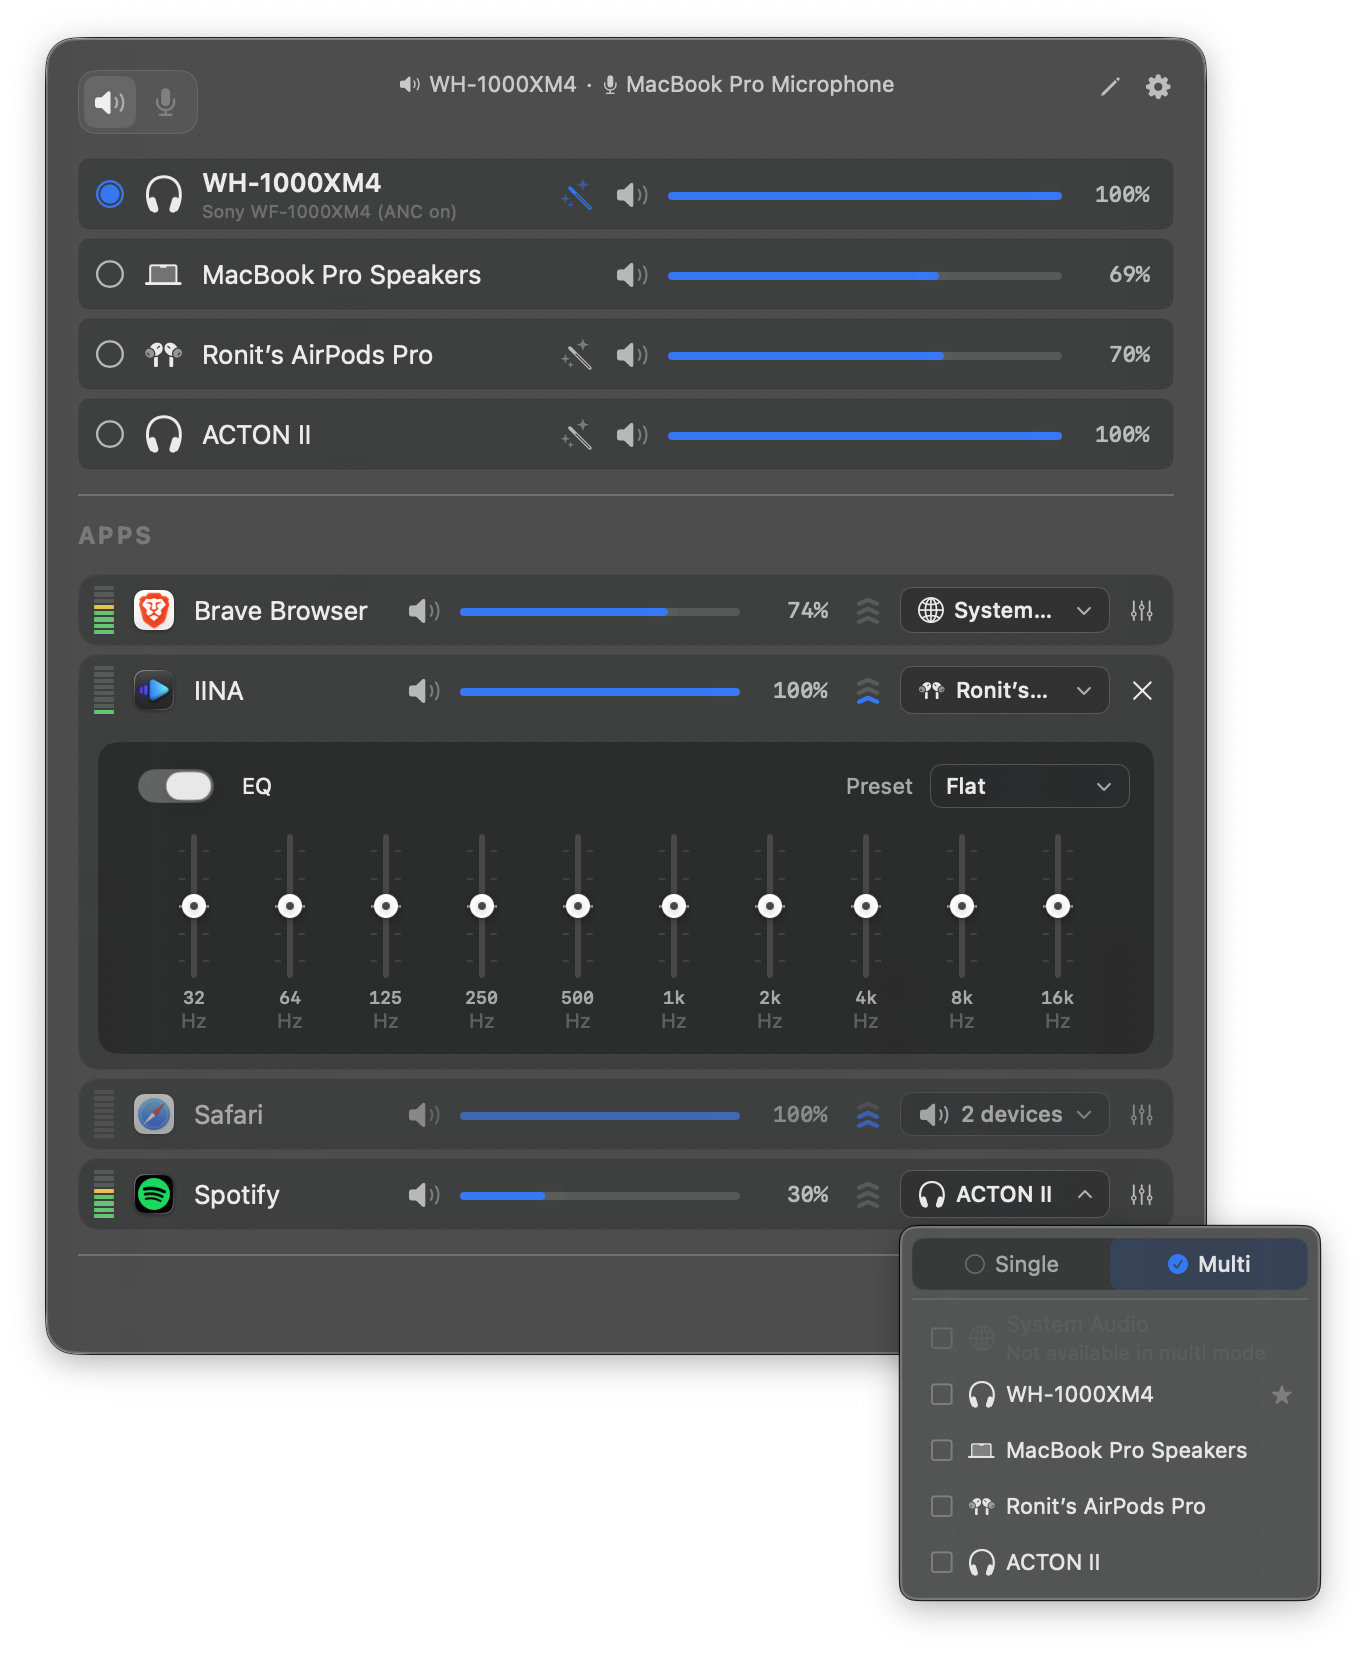
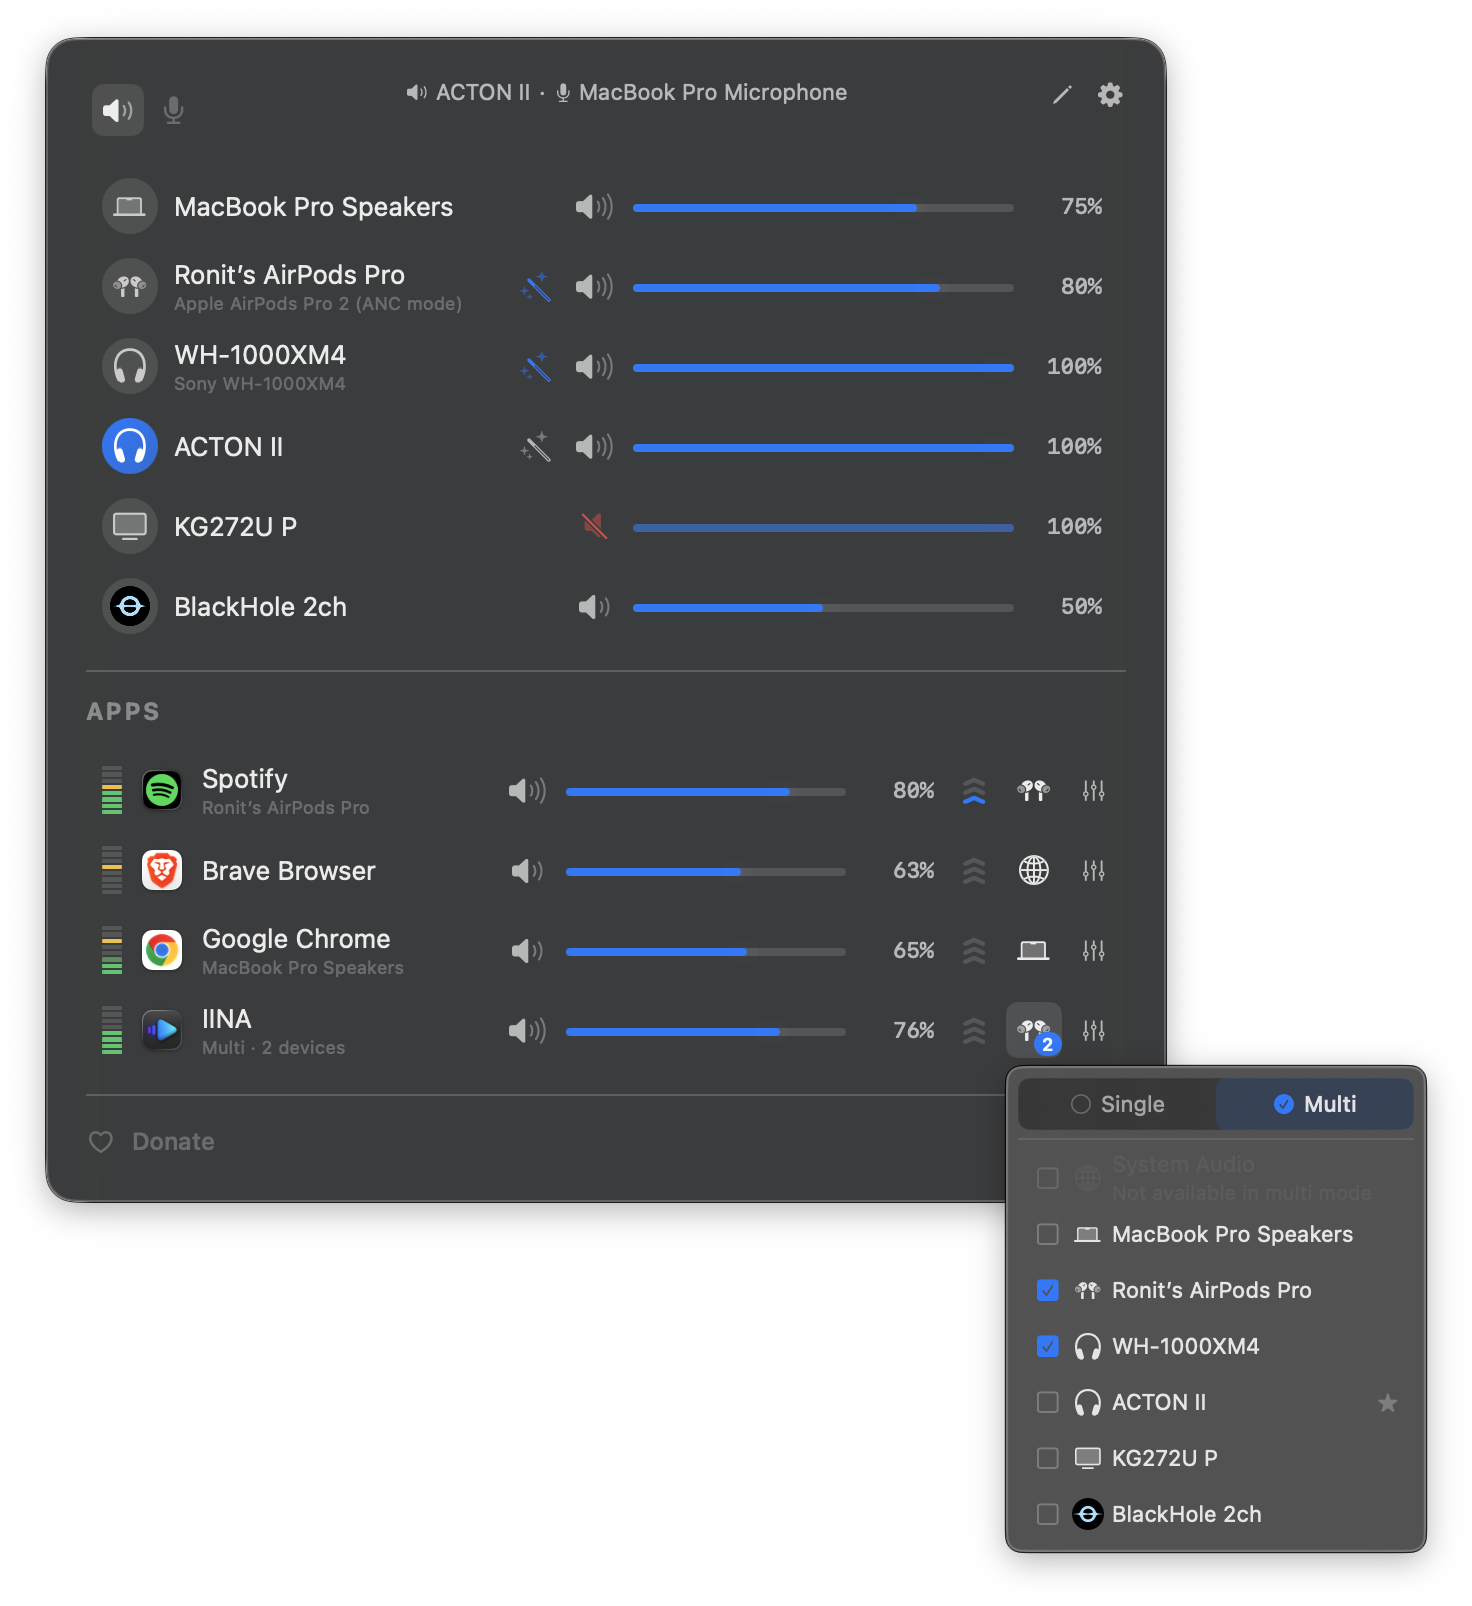
docs(readme): refresh for v1.7.0 features
Drops the stale Screenshots grid in favor of the new hero shot, which already covers per-app volume, multi-output, AutoEQ, and the new device rows.

diff --git a/README.md b/README.md
@@ -22,7 +22,7 @@ Control the volume of every app independently, boost quiet ones up to 4x, route 
 </p>
 
 <p align="center">
-  <img src="assets/screenshot-main.png" alt="FineTune showing per-app volume control with EQ and multi-device output" width="750">
+  <img src="assets/screenshot-main.png" alt="FineTune popup showing per-app volume control, multi-device output routing with picker popover, AutoEQ headphone correction, and device-level volume sliders" width="750">
 </p>
 
 ## Install
@@ -52,6 +52,14 @@ That's it. Adjust sliders, route audio, and explore EQ from the menu bar.
 - **Per-app volume boost** — 2x / 3x / 4x gain presets
 - **Pinned apps** — Keep apps visible in the menu bar even when they're not playing, so you can configure volume, EQ, and routing in advance
 - **Ignore apps** — Completely disengage FineTune from specific apps. Tears down the audio tap so the app returns to normal macOS audio
+- **Scroll-wheel volume** — Hover any slider in the popup, the HUD, or the EQ panel and scroll to adjust.
+
+### ⌨️ Keyboard
+- **Global volume hotkeys** — Bind your own keys to **App Volume Up**, **App Volume Down**, and **App Mute** from Settings → Shortcuts. The "app" is whichever is currently making sound, so volume-down while a YouTube tab plays behind a foreground Terminal turns down YouTube, not the terminal. If nothing is audible, the hotkey falls through to the frontmost app.
+- **Toggle the popup from anywhere** — Bind a hotkey to **Toggle FineTune Popup** and the menu bar opens or closes on demand, including from full-screen apps.
+- **Configurable step size** — Pick **Coarse / Normal / Fine / Extra-Fine** under Settings → Shortcuts → Volume Step. The same setting governs the F10–F12 media keys, the global hotkeys, and the popup's arrow-key navigation.
+- **Hold to ramp, auto-unmute on volume-up** — Holding App Volume Up or Down emits repeats the way macOS does for arrow keys. Volume-up while muted unmutes and sets the new level in one keystroke.
+- **Drive the popup with the keyboard** — Once the popup is open, **↑ / ↓** move between rows, **← / →** adjusts the focused row's volume (Shift = 2× step), **M** toggles mute, **Return / Space** activates, **Tab** switches between Output and Input device tabs, **Esc** closes. The focused row autoscrolls to center as you arrow through.
 
 ### 🔀 Audio Routing
 - **Multi-device output** — Route audio to multiple devices simultaneously
@@ -78,19 +86,9 @@ That's it. Adjust sliders, route audio, and explore EQ from the menu bar.
 - **Menu bar app** — Lightweight, always accessible
 - **URL schemes** — Automate volume, mute, device routing, and more from scripts
 
-## Screenshots
-
-<p align="center">
-  <img src="assets/screenshot-main.png" alt="FineTune showing per-app volume control with EQ and multi-device output" width="400">
-  <img src="assets/screenshot-edit-mode.png" alt="FineTune edit mode showing device priority, Bluetooth pairing, and app pin/ignore controls" width="400">
-</p>
-<p align="center">
-  <img src="assets/screenshot-autoeq.png" alt="FineTune AutoEQ headphone correction picker with search and favorites" width="400">
-  <img src="assets/screenshot-settings.png" alt="FineTune settings panel with Media Keys and HUD section" width="400">
-</p>
-<p align="center">
-  <img src="assets/screenshot-device-inspector.png" alt="FineTune device inspector showing sample rate, format, UID, and software-volume override, with hidden devices below" width="400">
-</p>
+### 🎨 Appearance
+- **Light or Dark theme** — Settings → General → Theme matches macOS or locks FineTune to Light or Dark. The menu bar popup, every popover, and the volume HUD switch immediately.
+- **Popup density** — Settings → General → Popup Size picks **Compact / Comfortable / Spacious** with a live tile preview. Compact fits more apps on small screens; Spacious gives bigger hit areas for trackpads.
 
 ## Documentation
 